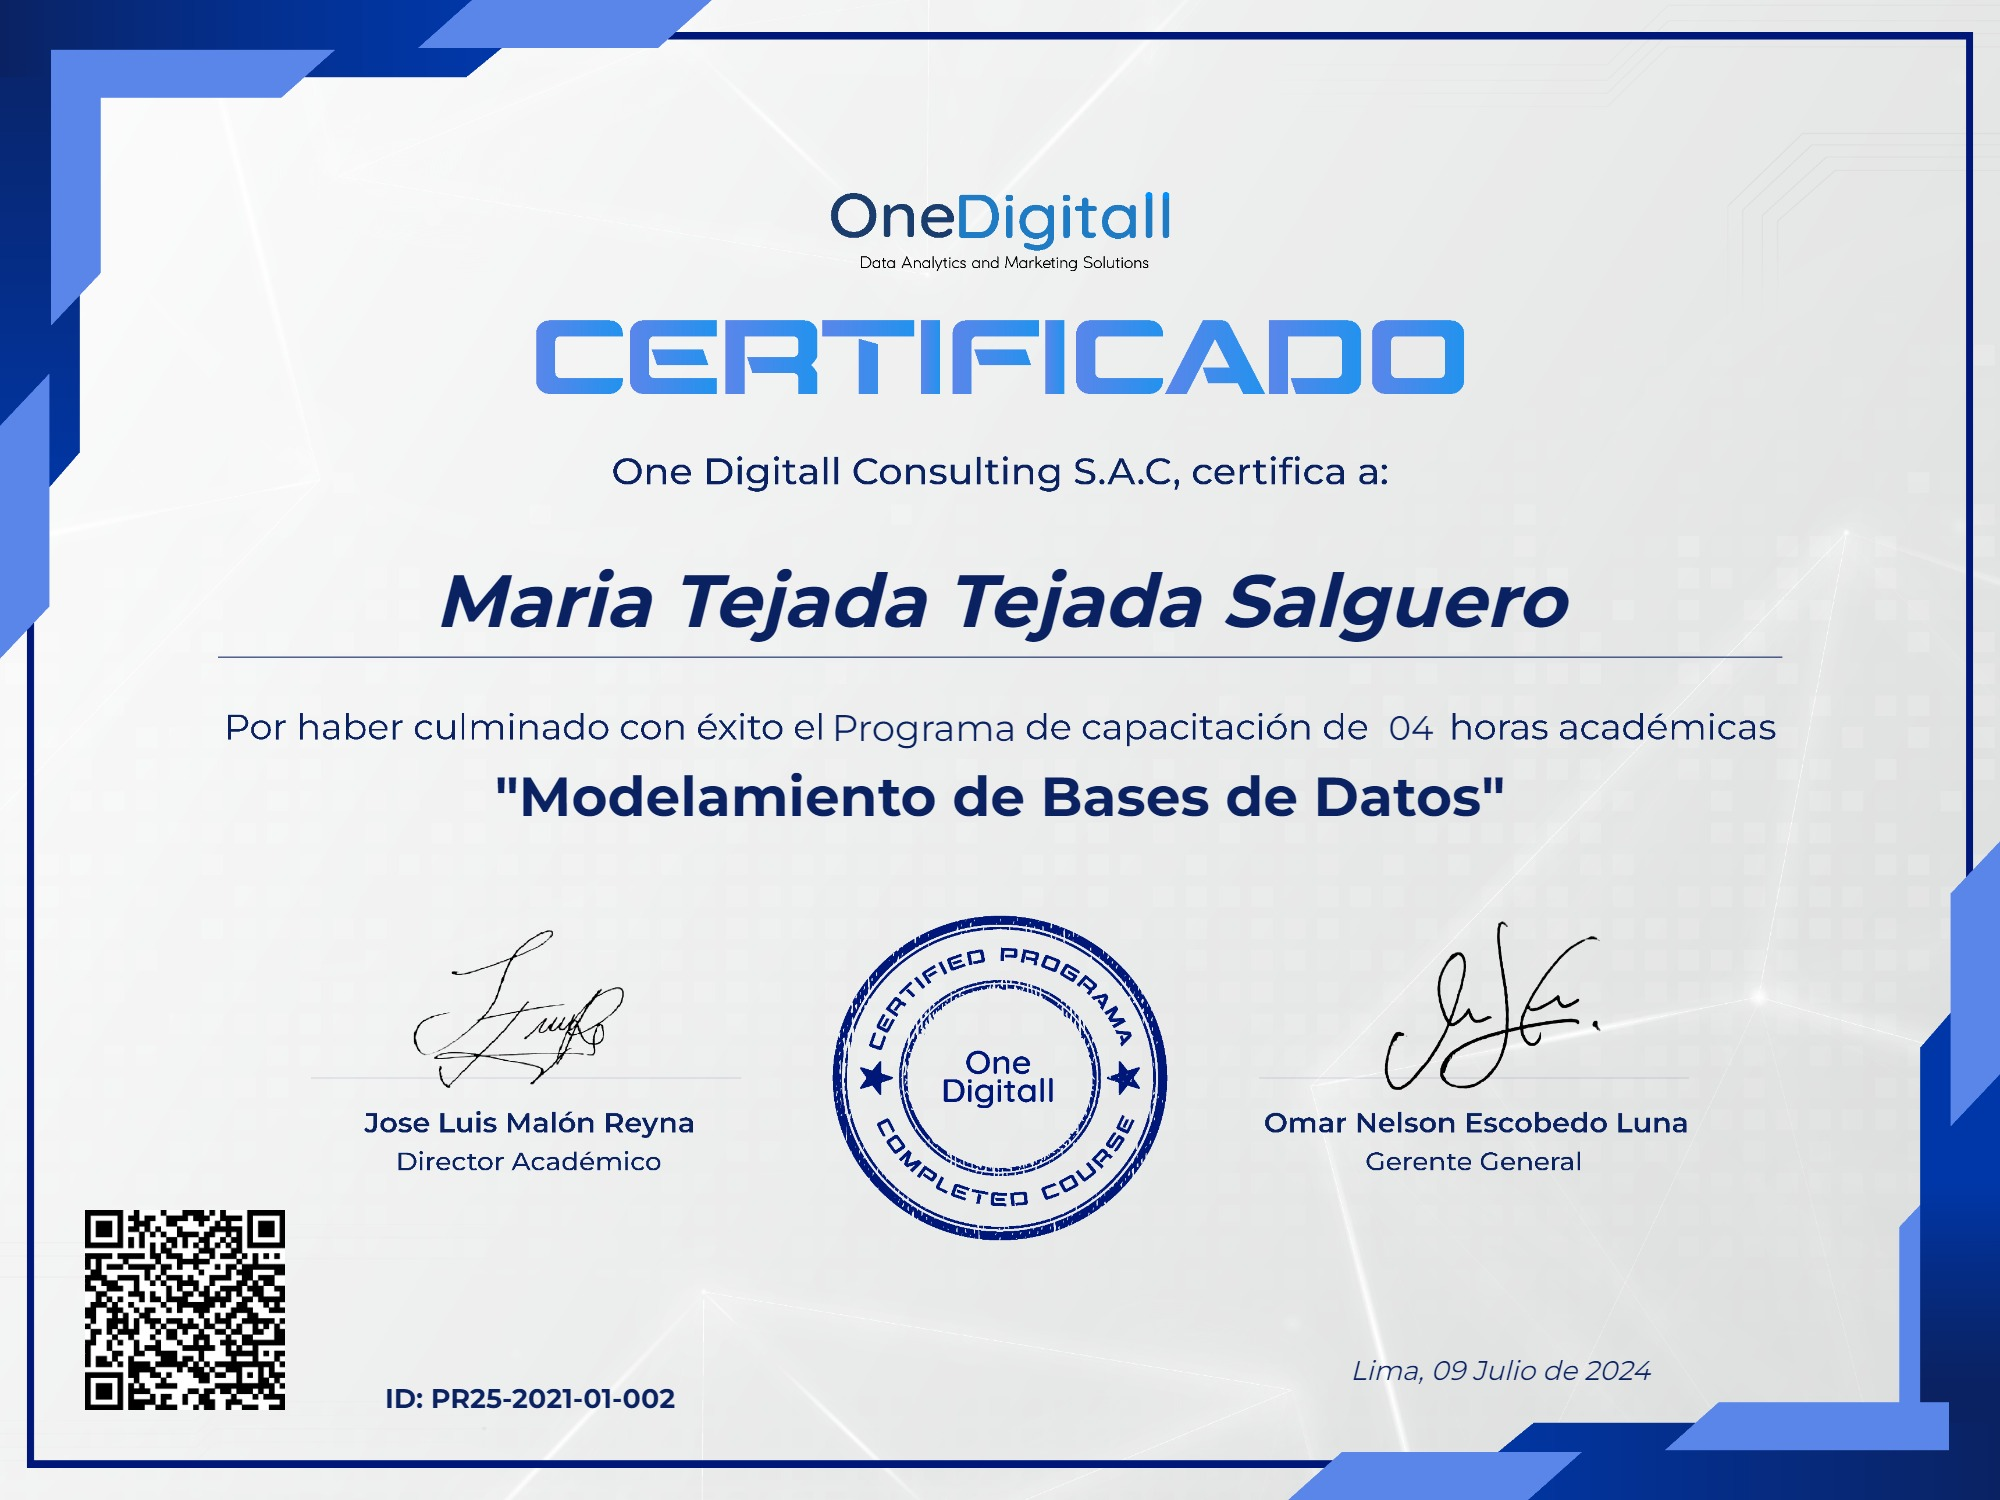
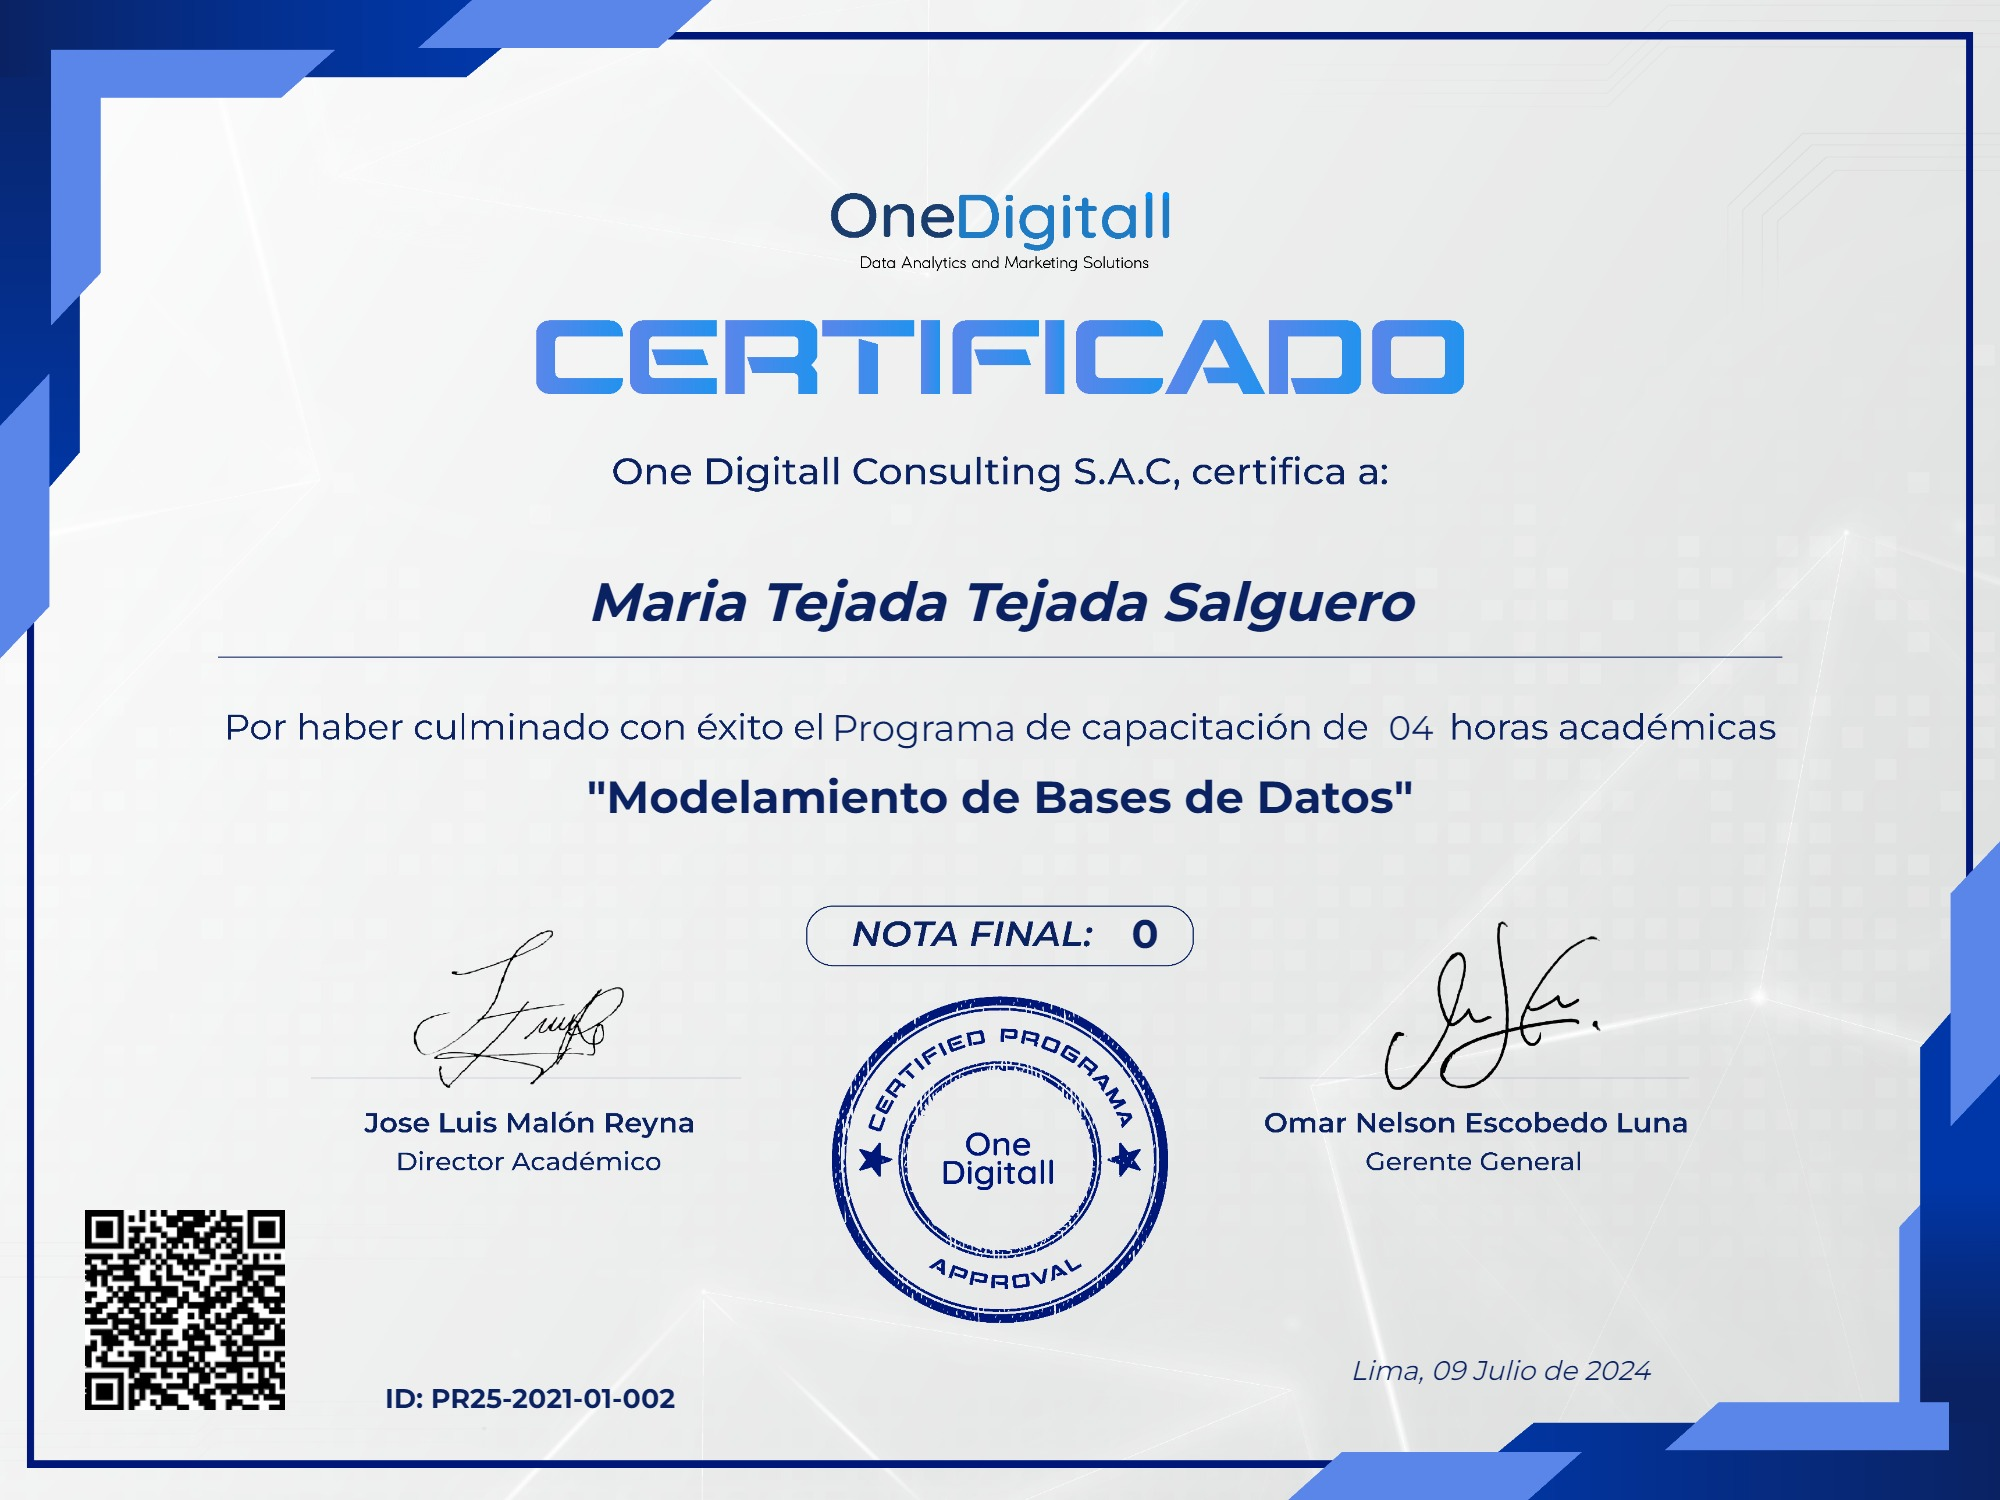
modificando tamaño de nombre

diff --git a/public/certification2.js b/public/certification2.js
@@ -166,7 +166,7 @@ function certificationDetail(id) {
                      /* Definimos tamaño de la fuente */
            //   ctx.font = '35px Relaway';
           //   ctx.font = "bold 10pt Courier";
-          ctx.font = "italic 74px Montserrat-bold";
+          ctx.font = "italic 54px Montserrat-bold";
   
               ctx.textAlign = "center";
               ctx.textBaseline = 'middle';
@@ -192,7 +192,7 @@ function certificationDetail(id) {
        
        ctx.fillText(hour, x+411, 730);
        
-       ctx.font = "bold 55px Montserrat-Bold";
+       ctx.font = "bold 45px Montserrat-Bold";
        ctx.fillStyle = "#0a2262";
        
   

diff --git a/public/certification.js b/public/certification.js
@@ -166,7 +166,7 @@ function certificationDetail(id) {
                      /* Definimos tamaño de la fuente */
            //   ctx.font = '35px Relaway';
           //   ctx.font = "bold 10pt Courier";
-   ctx.font = "italic 74px Montserrat-bold";
+   ctx.font = "italic 54px Montserrat-bold";
   
               ctx.textAlign = "center";
               ctx.textBaseline = 'middle';
@@ -192,7 +192,7 @@ function certificationDetail(id) {
        
        ctx.fillText(hour, x+411, 730);
        
-   ctx.font = "bold 55px Montserrat-Bold";
+   ctx.font = "bold 45px Montserrat-Bold";
        ctx.fillStyle = "#0a2262";
        
   
